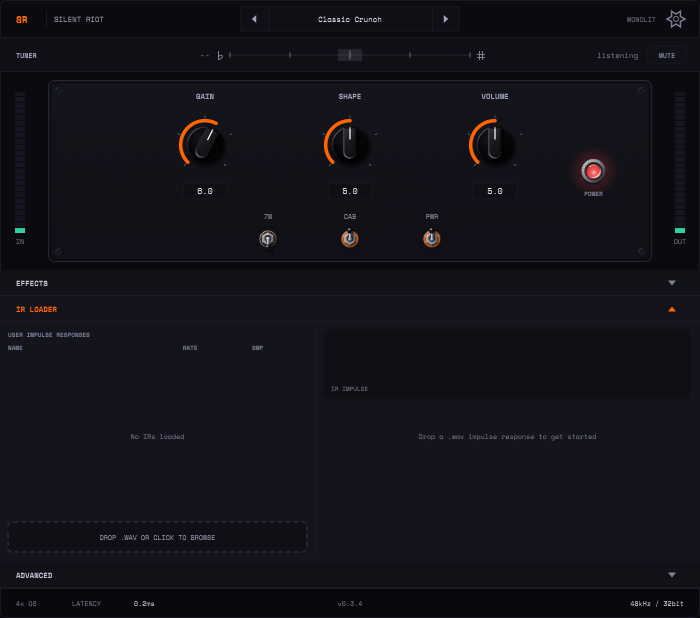
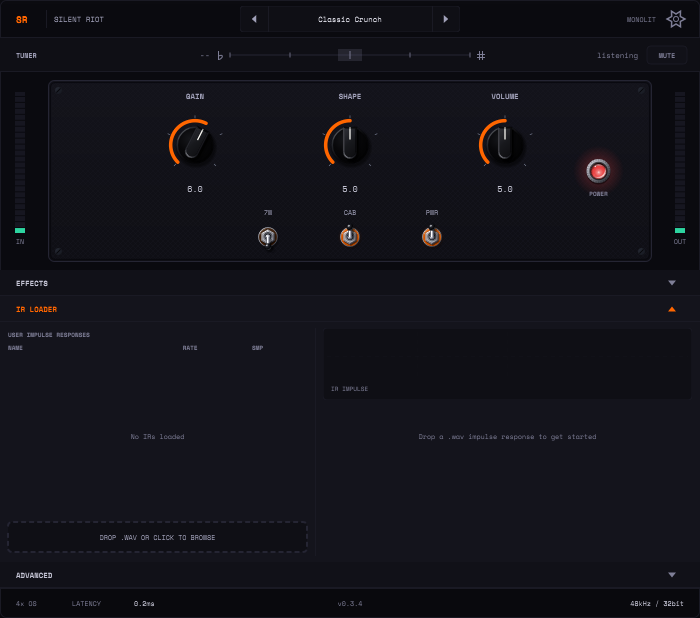
feat(gui): engraved knob values, larger bat toggles, wider knob row
- GAIN, SHAPE and VOLUME print their value as plain text on the panel
  (NotchKnob::setEngravedReadout) instead of a boxed readout; the row is
  kEngravedSaving (4 px) shorter. Effects knobs keep the box.
- The bat toggles draw at kBatScale 1.15 about the nut; minHeight(Switch)
  grows 44 -> 48 px, paid for by the shorter knob readout.
- GAIN and VOLUME sit 155 px either side of SHAPE (was 145), filling the
  empty left side; the lamp stays midway between VOLUME and the edge.

CLAUDE.md, STATE.md and the main-window screenshot follow.

diff --git a/src/gui/NotchKnob.cpp b/src/gui/NotchKnob.cpp
@@ -51,6 +51,13 @@ void NotchKnob::setLabelOnTop(bool onTop)
     repaint();
 }
 
+void NotchKnob::setEngravedReadout(bool engraved)
+{
+    engravedReadout = engraved;
+    resized();
+    repaint();
+}
+
 void NotchKnob::resized()
 {
     // Reserve the readout + label strip, then centre a square knob in what's
@@ -60,7 +67,7 @@ void NotchKnob::resized()
     if (labelOnTop)
     {
         area.removeFromTop(juce::roundToInt(labelH + readoutGap));
-        area.removeFromBottom(juce::roundToInt(readoutH));
+        area.removeFromBottom(juce::roundToInt(readoutRowH()));
     }
     else
     {
@@ -76,7 +83,7 @@ void NotchKnob::paint(juce::Graphics& g)
     auto labelBox   = labelOnTop ? bounds.removeFromTop(labelH) : bounds.removeFromBottom(labelH);
     if (! labelOnTop)
         bounds.removeFromBottom(readoutGap);
-    auto readoutRow = bounds.removeFromBottom(readoutH);
+    auto readoutRow = bounds.removeFromBottom(readoutRowH());
 
     // Value readout — knobs are 0..1 internally, displayed ×10 unless the owner
     // supplied a formatter (DELAY TIME's ms, the % knobs).
@@ -87,16 +94,27 @@ void NotchKnob::paint(juce::Graphics& g)
                                                Fonts::Sizes::value * scale));
     g.setFont(valFont);
 
-    const float valW = juce::jmax(readoutMinW,
-                                  valFont.getStringWidthFloat(valText) + 20.0f * scale);
-    auto valBox = readoutRow.withSizeKeepingCentre(valW, readoutRow.getHeight());
+    if (engravedReadout)
+    {
+        // Printed on the panel: a dark copy a pixel down sets it into the surface
+        g.setColour(juce::Colours::black.withAlpha(0.6f));
+        g.drawText(valText, readoutRow.translated(0.0f, 1.0f), juce::Justification::centred, false);
+        g.setColour(Colours::text);
+        g.drawText(valText, readoutRow, juce::Justification::centred, false);
+    }
+    else
+    {
+        const float valW = juce::jmax(readoutMinW,
+                                      valFont.getStringWidthFloat(valText) + 20.0f * scale);
+        auto valBox = readoutRow.withSizeKeepingCentre(valW, readoutRow.getHeight());
 
-    g.setColour(Colours::surface);
-    g.fillRoundedRectangle(valBox, 3.0f);
-    g.setColour(Colours::border);
-    g.drawRoundedRectangle(valBox, 3.0f, 1.0f);
-    g.setColour(Colours::bright);
-    g.drawText(valText, valBox, juce::Justification::centred, false);
+        g.setColour(Colours::surface);
+        g.fillRoundedRectangle(valBox, 3.0f);
+        g.setColour(Colours::border);
+        g.drawRoundedRectangle(valBox, 3.0f, 1.0f);
+        g.setColour(Colours::bright);
+        g.drawText(valText, valBox, juce::Justification::centred, false);
+    }
 
     // Parameter name
     g.setFont(Fonts::spaceMono(juce::jmax(Fonts::Sizes::micro,

diff --git a/src/PluginEditor.cpp b/src/PluginEditor.cpp
@@ -56,6 +56,7 @@ SilentRiotEditor::SilentRiotEditor(SilentRiotProcessor& p)
     for (auto* k : { &gainKnob, &toneKnob, &volumeKnob })
     {
         k->setLabelOnTop(true);
+        k->setEngravedReadout(true);
         k->getSlider().getProperties().set(sr::SilentRiotLookAndFeel::kPointerKnobProperty, true);
     }
     contentArea.addAndMakeVisible(halfPowerToggle);
@@ -623,16 +624,16 @@ void SilentRiotEditor::layoutContent()
     // SHAPE sits dead centre on the faceplate with GAIN and VOLUME a fixed pitch
     // either side. The toggles stay a tight group under SHAPE, so they read as
     // secondary to the knobs.
-    constexpr int dialW = 80, knobPitch = 145;
+    constexpr int dialW = 80, knobPitch = 155;
     const float plateCentreX = static_cast<float>(plate.getX()) + plate.getWidth() * 0.5f;
     const auto columnX = [&](int i) {
         return plateCentreX + static_cast<float>(knobPitch * (i - 1));
     };
 
     // knobH only reserves paint space: NotchKnob draws the label, the dial
-    // (80px) and the value readout, 108px in all. The knob + toggle stack is
-    // centred top to bottom.
-    int knobW = 100, knobH = 110;
+    // (76px) and the engraved value, which is kEngravedSaving shorter than a
+    // boxed readout. The knob + toggle stack is centred top to bottom.
+    int knobW = 100, knobH = 110 - sr::NotchKnob::kEngravedSaving;
     int toggleW = 50, toggleH = sr::ToggleSwitch::minHeight(sr::ToggleSwitch::Style::Switch), toggleGap = 32;
     // 10px below the knob's paint extent — ToggleSwitch draws its own label in
     // the top 14px, so the visible gap between knob readout and toggle label ~12px.

diff --git a/src/gui/NotchKnob.h b/src/gui/NotchKnob.h
@@ -47,6 +47,12 @@ public:
     // strip is the same height either way, so preferredHeight still holds.
     void setLabelOnTop(bool onTop);
 
+    // Draw the value as plain text printed on the panel instead of a boxed
+    // readout. Its row is kEngravedSaving shorter, so the knob needs that much
+    // less height.
+    void setEngravedReadout(bool engraved);
+    static constexpr int kEngravedSaving = 4;
+
     // Vertical room a knob needs to render in full *at scale 1.0*: the square
     // knob plus the readout + label strip. Lay one out shorter and the name is
     // drawn past the bottom edge and silently clipped — which is exactly what
@@ -79,7 +85,8 @@ private:
         }
     };
 
-    float stripH() const { return readoutH + readoutGap + labelH; }
+    float readoutRowH() const { return engravedReadout ? readoutH - kEngravedSaving : readoutH; }
+    float stripH() const { return readoutRowH() + readoutGap + labelH; }
 
     KnobSlider slider;
     juce::String label;
@@ -100,6 +107,7 @@ private:
     float labelH      = kLabelHBase;
     float readoutMinW = kReadoutMinWBase;
     bool labelOnTop   = false;
+    bool engravedReadout = false;
 
     JUCE_DECLARE_NON_COPYABLE_WITH_LEAK_DETECTOR(NotchKnob)
 };

diff --git a/src/gui/ToggleSwitch.h b/src/gui/ToggleSwitch.h
@@ -56,10 +56,11 @@ private:
 
     static constexpr float kLabelH   = 14.0f;
     static constexpr float kLabelGap =  4.0f;
-    // Bat toggle: the nut is centred kBatPivot below the label gap; the lever
-    // tip, its ball and their shadows need kBatH in all.
-    static constexpr float kBatH     = 26.0f;
-    static constexpr float kBatPivot = 12.0f;
+    // Bat toggle: drawn at kBatScale around a nut centred kBatPivot below the
+    // label gap; the lever tip, its ball and their shadows need kBatH in all.
+    static constexpr float kBatScale = 1.15f;
+    static constexpr float kBatH     = 30.0f;
+    static constexpr float kBatPivot = 14.0f;
     // A hairline, not a pill. kLedH + kLedGlow is deliberately chosen to make
     // minHeight() land on a whole number — it truncates, so a fractional sum
     // would leave the bar half a pixel short of its own reserved space.

diff --git a/src/gui/ToggleSwitch.cpp b/src/gui/ToggleSwitch.cpp
@@ -144,6 +144,9 @@ void ToggleSwitch::paintSwitch(juce::Graphics& g, juce::Rectangle<float> bounds)
     const auto lighten = [](juce::Colour c, float t) { return c.interpolatedWith(juce::Colours::white, t); };
     const auto darken = [](juce::Colour c, float t) { return c.interpolatedWith(juce::Colours::black, t); };
     const auto circle = [](float x, float y, float r) { return juce::Rectangle<float>(x - r, y - r, r * 2.0f, r * 2.0f); };
+    // Every dimension below is at scale 1; the whole switch grows about the nut.
+    juce::Graphics::ScopedSaveState scaled(g);
+    g.addTransform(juce::AffineTransform::scale(kBatScale, kBatScale, cx, cy));
     const auto withStops = [](juce::ColourGradient grad, Stops stops) {
         for (const auto& [p, col] : stops)
             if (p > 0.0f && p < 1.0f)

diff --git a/CLAUDE.md b/CLAUDE.md
@@ -124,9 +124,9 @@ cmake -B build -DSR_BUILD_TESTS=ON # Build with tests
 - **ColourPalette.h** — 28 inline colour constants (dark theme), incl. the `knobBody`/`knobFace`/`knobTick` ramp. Text tiers hold ≥4.5:1 against `panel`; `muted` (3.5:1) is decoration only, never a glyph
 - **FontData.h/.cpp** — Embedded Space Mono + DM Sans fonts via BinaryData, plus the `Fonts::Sizes` type scale (micro 9 / small 10 / body 11 / value 12.5 / title 14 / hero 22). No bare numeric font sizes anywhere in `src/gui/` — tune type from that one block. Note these are JUCE font *heights* (ascent+descent), which render ~25% smaller than the same number in CSS px
 - **LookAndFeel.h/.cpp** — `SilentRiotLookAndFeel`. Owns `drawRotarySlider` — the arc knob paint routine (five uniform ticks, value arc, body + face circles, indicator triangle inside the face). Every dimension is a ratio of `D = jmin(w,h)`, so one routine covers all knob sizes and `setScale` does not touch the graphic. A slider with the `kPointerKnobProperty` property (the amp row's GAIN/SHAPE/VOLUME) gets a satin pointer knob instead of the body/face/triangle: a black skirt with a chamfered bar and cream line, rotated point by point so the light stays fixed; ticks and value arc are shared. `kRotaryStartAngle`/`kRotaryEndAngle` (225°→495°) define the 270° sweep — a slider painted with this LookAndFeel **must** call `setRotaryParameters()` with them, or its ticks won't line up with its value
-- **NotchKnob.h/.cpp** — Rotary knob shell: owns the slider, reserves the readout + label strip and centres a square knob in what's left, paints the value readout and parameter label. The knob face itself is painted by the LookAndFeel. **No focus indicator is drawn** — the knobs stay in the tab order and respond to arrow/PageUp keys, but focus is deliberately invisible (removed 2026-08-16 by request); don't reintroduce a ring without asking. Name is historical — the knob was a segmented arc with a notch pointer before the arc design. `setScale()` scales only the text strip (each metric floored — text stops being readable long before the knob does); `preferredHeight` (112px) is the room a scale-1.0 knob needs, and laying one out shorter clips the name. Optional `setValueFormatter()` overrides the default 0–10 readout (used for DELAY TIME's ms and the `%` knobs)
+- **NotchKnob.h/.cpp** — Rotary knob shell: owns the slider, reserves the readout + label strip and centres a square knob in what's left, paints the value readout and parameter label. The knob face itself is painted by the LookAndFeel. **No focus indicator is drawn** — the knobs stay in the tab order and respond to arrow/PageUp keys, but focus is deliberately invisible (removed 2026-08-16 by request); don't reintroduce a ring without asking. Name is historical — the knob was a segmented arc with a notch pointer before the arc design. `setScale()` scales only the text strip (each metric floored — text stops being readable long before the knob does); `preferredHeight` (112px) is the room a scale-1.0 knob needs, and laying one out shorter clips the name. Optional `setValueFormatter()` overrides the default 0–10 readout (used for DELAY TIME's ms and the `%` knobs). `setEngravedReadout()` (amp row) prints the value as plain text on the panel instead of a boxed readout, `kEngravedSaving` (4px) shorter
 - **VUMeter.h/.cpp** — 24-segment LED bar, 60Hz timer, green/yellow/red zones
-- **ToggleSwitch.h/.cpp** — toggle wrapping `juce::ToggleButton` for APVTS attachment, in two styles: `Style::Switch` (a short chrome bat toggle with a black ball tip, through a hex nut on a narrow glass ring lit softly in the switch colour (orange on all three, so the faceplate has one accent colour), lever up = on; used by the amp row) and `Style::Led` (a flat lit bar, used by the effects cards). **Always lay one out against `ToggleSwitch::minHeight(style)`** — 44px for Switch, 21px for Led. It paints its label at the top and its switch/lamp *below*, and JUCE clips paint() to the component's own bounds, so a toggle given only enough height for its label loses the track entirely: the control renders as a dead text label while its clicks keep working and the parameter keeps changing. That silent failure is what made the effects toggles look broken (fixed 2026-08-16); `EffectsPanel` now static_asserts its card metrics against `minHeight`
+- **ToggleSwitch.h/.cpp** — toggle wrapping `juce::ToggleButton` for APVTS attachment, in two styles: `Style::Switch` (a short chrome bat toggle with a black ball tip, through a hex nut on a narrow glass ring lit softly in the switch colour (orange on all three, so the faceplate has one accent colour), lever up = on; used by the amp row) and `Style::Led` (a flat lit bar, used by the effects cards). **Always lay one out against `ToggleSwitch::minHeight(style)`** — 48px for Switch (drawn at `kBatScale` 1.15 about the nut), 21px for Led. It paints its label at the top and its switch/lamp *below*, and JUCE clips paint() to the component's own bounds, so a toggle given only enough height for its label loses the track entirely: the control renders as a dead text label while its clicks keep working and the parameter keeps changing. That silent failure is what made the effects toggles look broken (fixed 2026-08-16); `EffectsPanel` now static_asserts its card metrics against `minHeight`
 - **HeaderBar.h/.cpp** — Brand + PresetSelector + gear icon
 - **TunerBar.h/.cpp** — Always-visible live tuner strip (note name + octave, cents meter, freq readout). Owns a `PitchDetector`, pulls DI windows from the processor's capture ring on the shared 30Hz timer
 - **FooterBar.h/.cpp** — OS factor, latency, sample rate, bit depth

diff --git a/.agents/STATE.md b/.agents/STATE.md
@@ -30,7 +30,8 @@ _Updated 2026-10-29_
 7. Owner: amp faceplate (`feat/amp-faceplate`, `src/gui/AmpFaceplate.*`) approved, wordmark removed.
    Pilot lamp is a deep-ruby glass dome (8 px lens), vertically centred right of VOLUME; amp knob
    labels on top; SHAPE dead centre, toggles grouped under it as chrome bat switches on lit glass
-   rings; amp knobs are satin pointer knobs (effects knobs stay flat). Screenshot refreshed. Open: lamp
+   rings (all orange, 15% larger); amp knobs are satin pointer knobs with engraved values, 155 px
+   apart (effects knobs stay flat and boxed). Screenshot refreshed. Open: lamp
    colour, weave strength, keep the "POWER" label?
 
 ## Decisions
